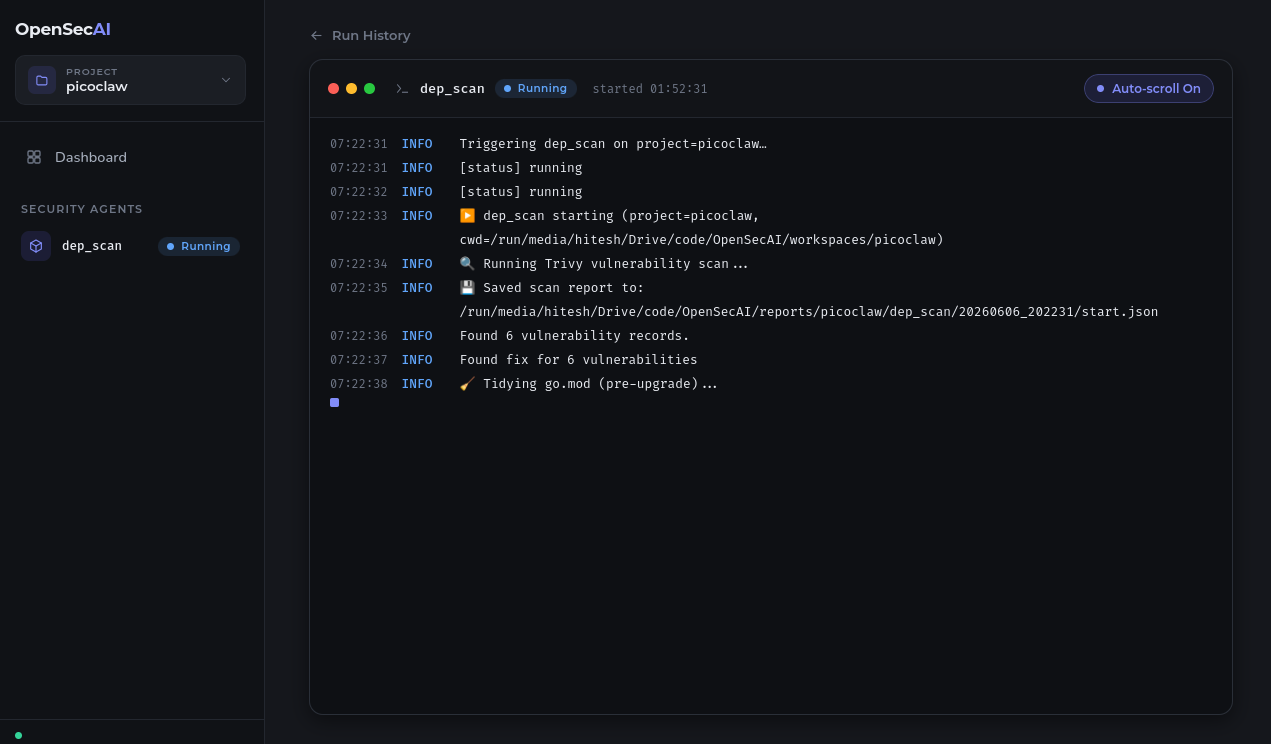
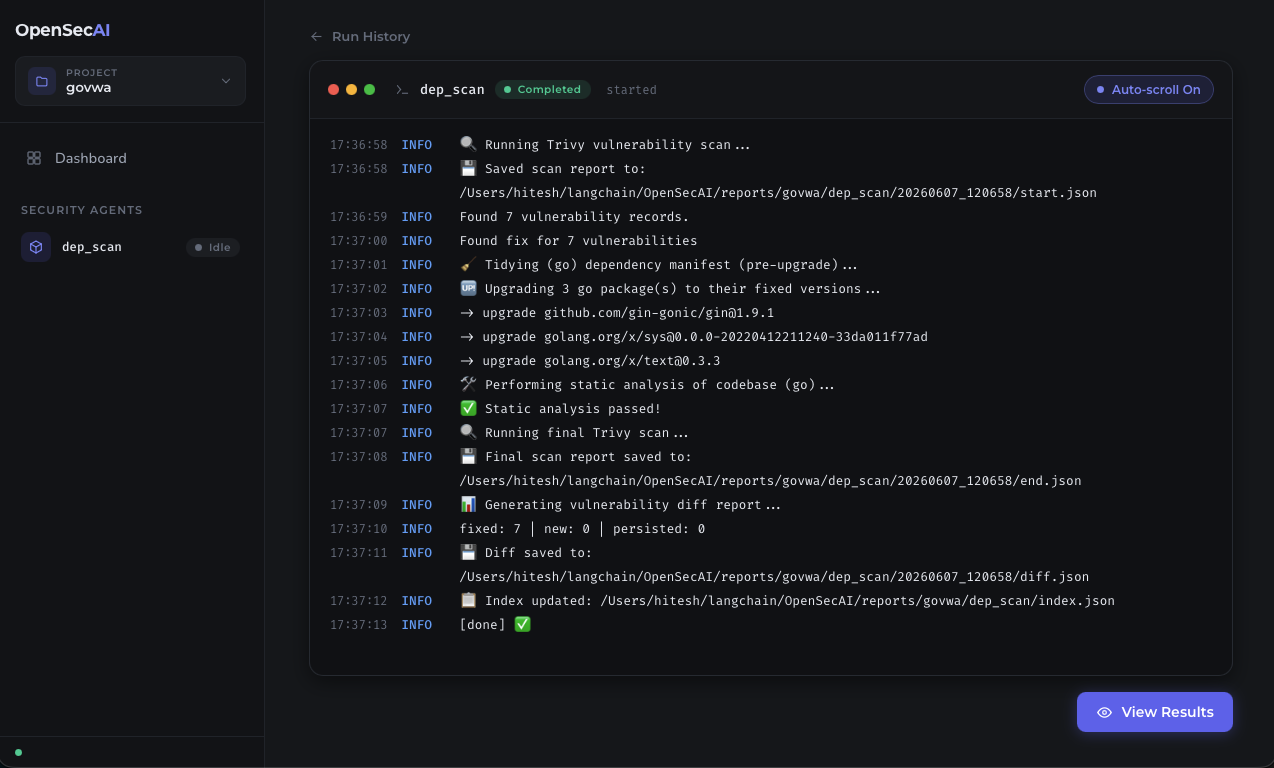
explicit schema declaration when constructing the DataFrames
The fix adds schema={"id": pl.String} to both DataFrame constructors,
so the dtype is always String regardless of whether the list is empty

diff --git a/opensecai/agents/dep_scan/runner.py b/opensecai/agents/dep_scan/runner.py
@@ -503,8 +503,8 @@ def diff_report_node(state: AgentState, runtime: Runtime[RunContext]) -> dict:
         _log(runtime, f"❌ Cannot diff — missing report file: {e}", err=True)
         return {}
 
-    start_df = pl.DataFrame({"id": [v.get("VulnerabilityID") for v in start_vulns]})
-    end_df = pl.DataFrame({"id": [v.get("VulnerabilityID") for v in end_vulns]})
+    start_df = pl.DataFrame({"id": [v.get("VulnerabilityID") for v in start_vulns]}, schema={"id": pl.String})
+    end_df = pl.DataFrame({"id": [v.get("VulnerabilityID") for v in end_vulns]}, schema={"id": pl.String})
 
     start_only_ids = set(start_df.join(end_df, on="id", how="anti")["id"].to_list())
     end_only_ids = set(end_df.join(start_df, on="id", how="anti")["id"].to_list())